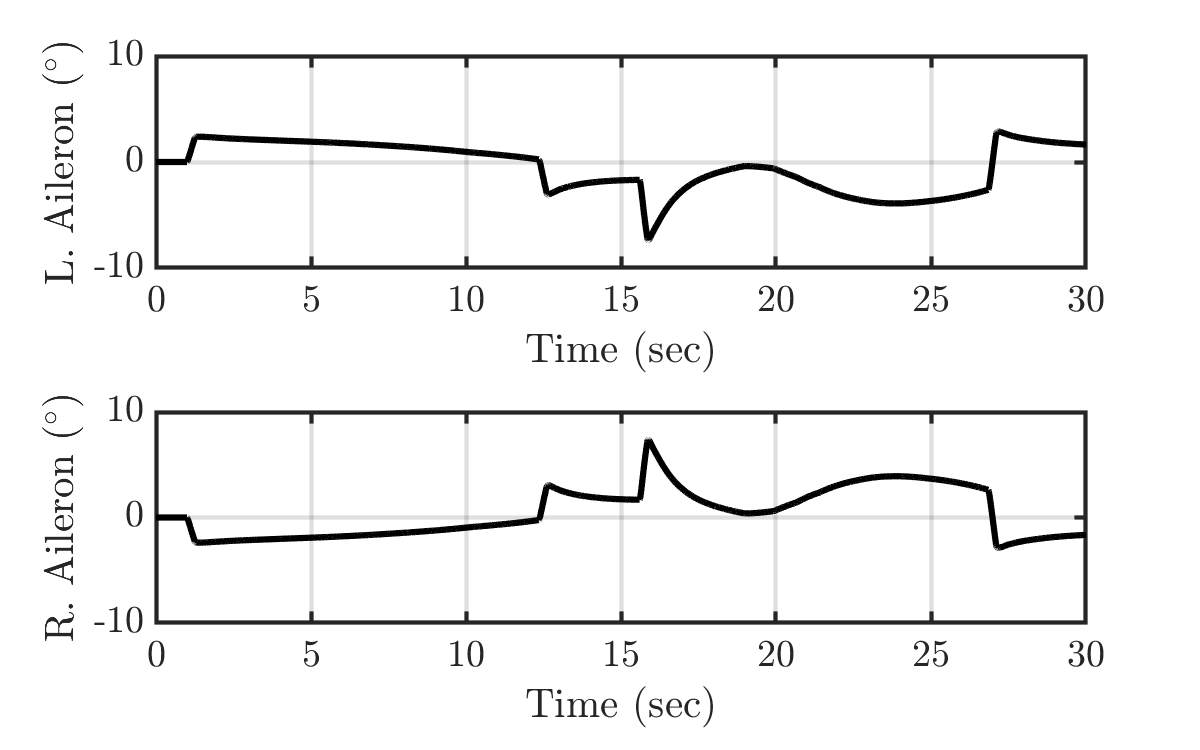
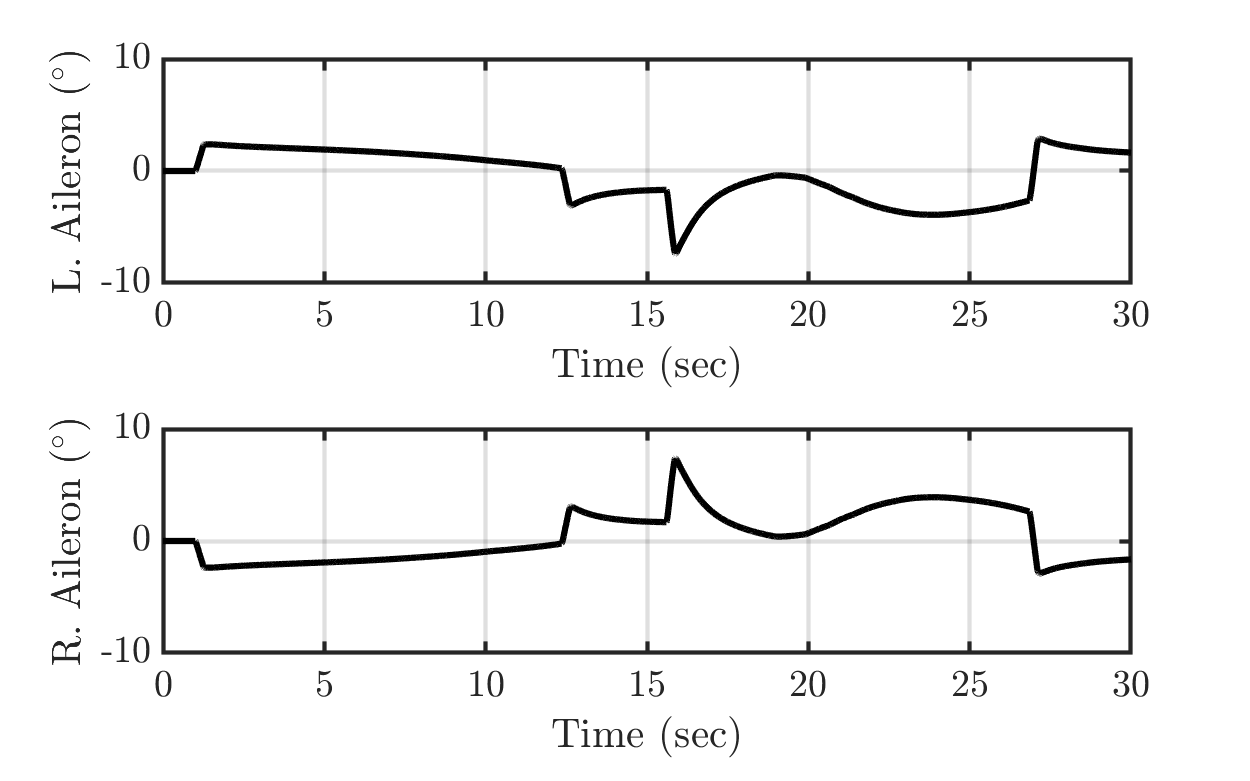
cba plots

diff --git a/code/image_gen/cba/plot_cfr147d.m b/code/image_gen/cba/plot_cfr147d.m
@@ -10,13 +10,12 @@ fs = 18;
 lw = 3;
 
 load('data_CFR147d_initial_example.mat');
-
+setup_plots(plotting_options('thesis'))
 %% Plot the nominal trajectories for the original requirement
 %   Plot the original requirement of 11 seconds
 
 % Roll Angle
-figure('units','inch','position',[0,0,8,5]); clf; hold on;
-% set(gcf,'Position',[589,456,755,420]);
+figure(1); clf; hold on; set_figure_size(gcf,8,5);
 plot(phi_rad_struct(1).time,phi_rad_struct(1).values*180/pi,'k','LineWidth',lw);
 % set(gca,'FontSize',fs);
 xlabel('Time (sec)');
@@ -26,8 +25,7 @@ grid on; box on;
 saveas(gcf,'images/cfr147d_roll_angle.png')
 
 % Roll Acceleration
-figure('units','inch','position',[0,0,8,5]); clf; hold on;
-% set(gcf,'Position',[589,456,755,420]);
+figure(2); clf; hold on; set_figure_size(gcf,8,5);
 plot(pdot_dps2_struct_CPR(1).time,pdot_dps2_struct_CPR(1).values,'k','LineWidth',lw);
 set(gca,'FontSize',fs);
 xlabel('Time (sec)');
@@ -38,7 +36,7 @@ grid on; box on;
 saveas(gcf,'images/cfr147d_roll_acc.png')
 
 % Aileron Deflection
-figure('units','inch','position',[0,0,8,5]); clf;
+figure(3); clf; set_figure_size(gcf,8,5);
 subplot(2,1,1); hold on;
 plot(surf_AIL_deg_struct(1).time-2,surf_AIL_deg_struct(1).values,'k','LineWidth',lw);
 xlim([0 max(surf_AIL_deg_struct(1).time)-2]);
@@ -103,6 +101,114 @@ ylabel('Elevator $(^\circ)$');
 grid on; box on;
 saveas(gcf,'images/cfr147d_elev_defl.png')
 
+%% Now look at engine-out analyses
+
+% Roll Acceleration
+figure('units','inch','position',[0,0,8,5]); clf; hold on; 
+% set(gcf,'Position',[589,456,755,420]); 
+plot(pdot_dps2_struct_CPA(1).time-2,pdot_dps2_struct_CPA(1).values,'LineWidth',lw);
+plot(pdot_dps2_struct_CPA(2).time-2,pdot_dps2_struct_CPA(2).values,'LineWidth',lw);
+plot(pdot_dps2_struct_CPA(3).time-2,pdot_dps2_struct_CPA(3).values,'LineWidth',lw);
+xlim([0 max(pdot_dps2_struct_CPA(1).time)-2]);
+set(gca,'FontSize',fs);
+xlabel('Time (sec)');
+ylabel('Roll Acceleration $(^\circ/s^2)$');
+legend('Normal','R. Engine Out','L. Engine Out','Location','SouthEast');
+grid on; box on;
+saveas(gcf,'images/eo_cfr147d_roll_acc.png')
+
+% % Yaw Acceleration
+% figure('units','inch','position',[0,0,8,5]); clf; hold on; 
+% % set(gcf,'Position',[589,456,755,420]); 
+% plot(rdot_dps2_struct_CPR(1).time,rdot_dps2_struct_CPR(1).values,'LineWidth',lw);
+% plot(rdot_dps2_struct_CPR(2).time,rdot_dps2_struct_CPR(2).values,'LineWidth',lw);
+% plot(rdot_dps2_struct_CPR(3).time,rdot_dps2_struct_CPR(3).values,'LineWidth',lw);
+% xlim([0 max(rdot_dps2_struct_CPA(1).time)]);
+% set(gca,'FontSize',fs);
+% xlabel('Time (sec)');
+% ylabel('Yaw Acceleration $(^\circ/s^2)$');
+% legend('Normal','R. Engine Out','L. Engine Out','Location','Best');
+
+% Yaw Acceleration
+figure('units','inch','position',[0,0,8,5]); clf; hold on; 
+% set(gcf,'Position',[589,456,755,420]); 
+plot(rdot_dps2_struct_CPA(1).time-2,rdot_dps2_struct_CPA(1).values,'LineWidth',lw);
+plot(rdot_dps2_struct_CPA(2).time-2,rdot_dps2_struct_CPA(2).values,'LineWidth',lw);
+plot(rdot_dps2_struct_CPA(3).time-2,rdot_dps2_struct_CPA(3).values,'LineWidth',lw);
+xlim([0 max(rdot_dps2_struct_CPA(1).time)-2]);
+set(gca,'FontSize',fs);
+xlabel('Time (sec)');
+ylabel('Yaw Acceleration $(^\circ/s^2)$');
+legend('Normal','R. Engine Out','L. Engine Out','Location','Best');
+grid on; box on;
+saveas(gcf,'images/eo_cfr147d_yaw_acc.png')
+
+% Pitch Acceleration
+figure('units','inch','position',[0,0,8,5]); clf; hold on; 
+% set(gcf,'Position',[589,456,755,420]); 
+plot(qdot_dps2_struct_CPA(1).time-2,qdot_dps2_struct_CPA(1).values,'LineWidth',lw);
+plot(qdot_dps2_struct_CPA(2).time-2,qdot_dps2_struct_CPA(2).values,'LineWidth',lw);
+plot(qdot_dps2_struct_CPA(3).time-2,qdot_dps2_struct_CPA(3).values,'LineWidth',lw);
+xlim([0 max(rdot_dps2_struct_CPA(1).time)-2]);
+set(gca,'FontSize',fs);
+xlabel('Time (sec)');
+ylabel('Pitch Acceleration $(^\circ/s^2)$');
+legend('Normal','R. Engine Out','L. Engine Out','Location','Best');
+grid on; box on;
+saveas(gcf,'images/eo_cfr147d_pitch_acc.png')
+
+% Aileron Deflection
+figure;
+set(gcf,'Position',[589,456,755,480]);
+subplot(2,1,1); hold on;
+plot(surf_AIL_deg_struct(1).time-2,surf_AIL_deg_struct(1).values,'LineWidth',lw);
+plot(surf_AIL_deg_struct(2).time-2,surf_AIL_deg_struct(2).values,'LineWidth',lw);
+plot(surf_AIL_deg_struct(3).time-2,surf_AIL_deg_struct(3).values,'LineWidth',lw);
+xlim([0 max(surf_AIL_deg_struct(1).time)-2]);
+set(gca,'FontSize',fs);
+xlabel('Time (sec)');
+ylabel('L. Aileron $(^\circ)$');
+grid on; box on;
+% legend('Normal','R. Engine Out','L. Engine Out','Location','Best');
+subplot(2,1,2); hold on;
+plot(surf_AIR_deg_struct(1).time-2,surf_AIR_deg_struct(1).values,'LineWidth',lw);
+plot(surf_AIR_deg_struct(2).time-2,surf_AIR_deg_struct(2).values,'LineWidth',lw);
+plot(surf_AIR_deg_struct(3).time-2,surf_AIR_deg_struct(3).values,'LineWidth',lw);
+xlim([0 max(surf_AIR_deg_struct(1).time)-2]);
+set(gca,'FontSize',fs);
+xlabel('Time (sec)');
+ylabel('R. Aileron $(^\circ)$');
+legend('Normal','R. Engine Out','L. Engine Out','Location','Best');
+grid on; box on;
+saveas(gcf,'images/eo_cfr147d_ail_defl.png')
+
+% Rudder Deflection
+figure('units','inch','position',[0,0,8,5]); clf; hold on; 
+% set(gcf,'Position',[589,456,755,420]); 
+plot(surf_RUD_deg_struct(1).time-2,surf_RUD_deg_struct(1).values,'LineWidth',lw);
+plot(surf_RUD_deg_struct(2).time-2,surf_RUD_deg_struct(2).values,'LineWidth',lw);
+plot(surf_RUD_deg_struct(3).time-2,surf_RUD_deg_struct(3).values,'LineWidth',lw);
+xlim([0 max(surf_RUD_deg_struct(1).time)-2]);
+set(gca,'FontSize',fs);
+xlabel('Time (sec)');
+ylabel('Rudder $(^\circ)$');
+legend('Normal','R. Engine Out','L. Engine Out','Location','Best');
+grid on; box on;
+saveas(gcf,'images/eo_cfr147d_rud_defl.png')
+
+% Elevator Deflection
+figure('units','inch','position',[0,0,8,5]); clf; hold on; 
+% set(gcf,'Position',[589,456,755,420]); 
+plot(surf_ELV_deg_struct(1).time-2,surf_ELV_deg_struct(1).values,'LineWidth',lw);
+plot(surf_ELV_deg_struct(2).time-2,surf_ELV_deg_struct(2).values,'LineWidth',lw);
+plot(surf_ELV_deg_struct(3).time-2,surf_ELV_deg_struct(3).values,'LineWidth',lw);
+xlim([0 max(surf_ELV_deg_struct(1).time)-2]);
+set(gca,'FontSize',fs);
+xlabel('Time (sec)');
+ylabel('Elevator $(^\circ)$');
+legend('Normal','R. Engine Out','L. Engine Out','Location','Best');
+grid on; box on;
+saveas(gcf,'images/eo_cfr147d_elev_defl.png')
 %% Plot mean response
 load('./Stanford_CFR25_147d/WT_trajectory_results')
 figure('units','inch','position',[0,0,8,5]); clf; hold on;
@@ -113,7 +219,7 @@ plot(CPR_traj_MC(4).normal(i).phi_rad.time,CPR_traj_MC(4).normal(i).phi_rad.valu
 
 % set(gca,'FontSize',fs);
 xlabel('Time (sec)');
-ylabel('Roll Angle (deg)');
+ylabel('Roll Angle $(^\circ)$');
 legend('Target','Actual');
 grid on; box on;
 saveas(gcf,'images/cfr147d_roll_angle_mean.png')
